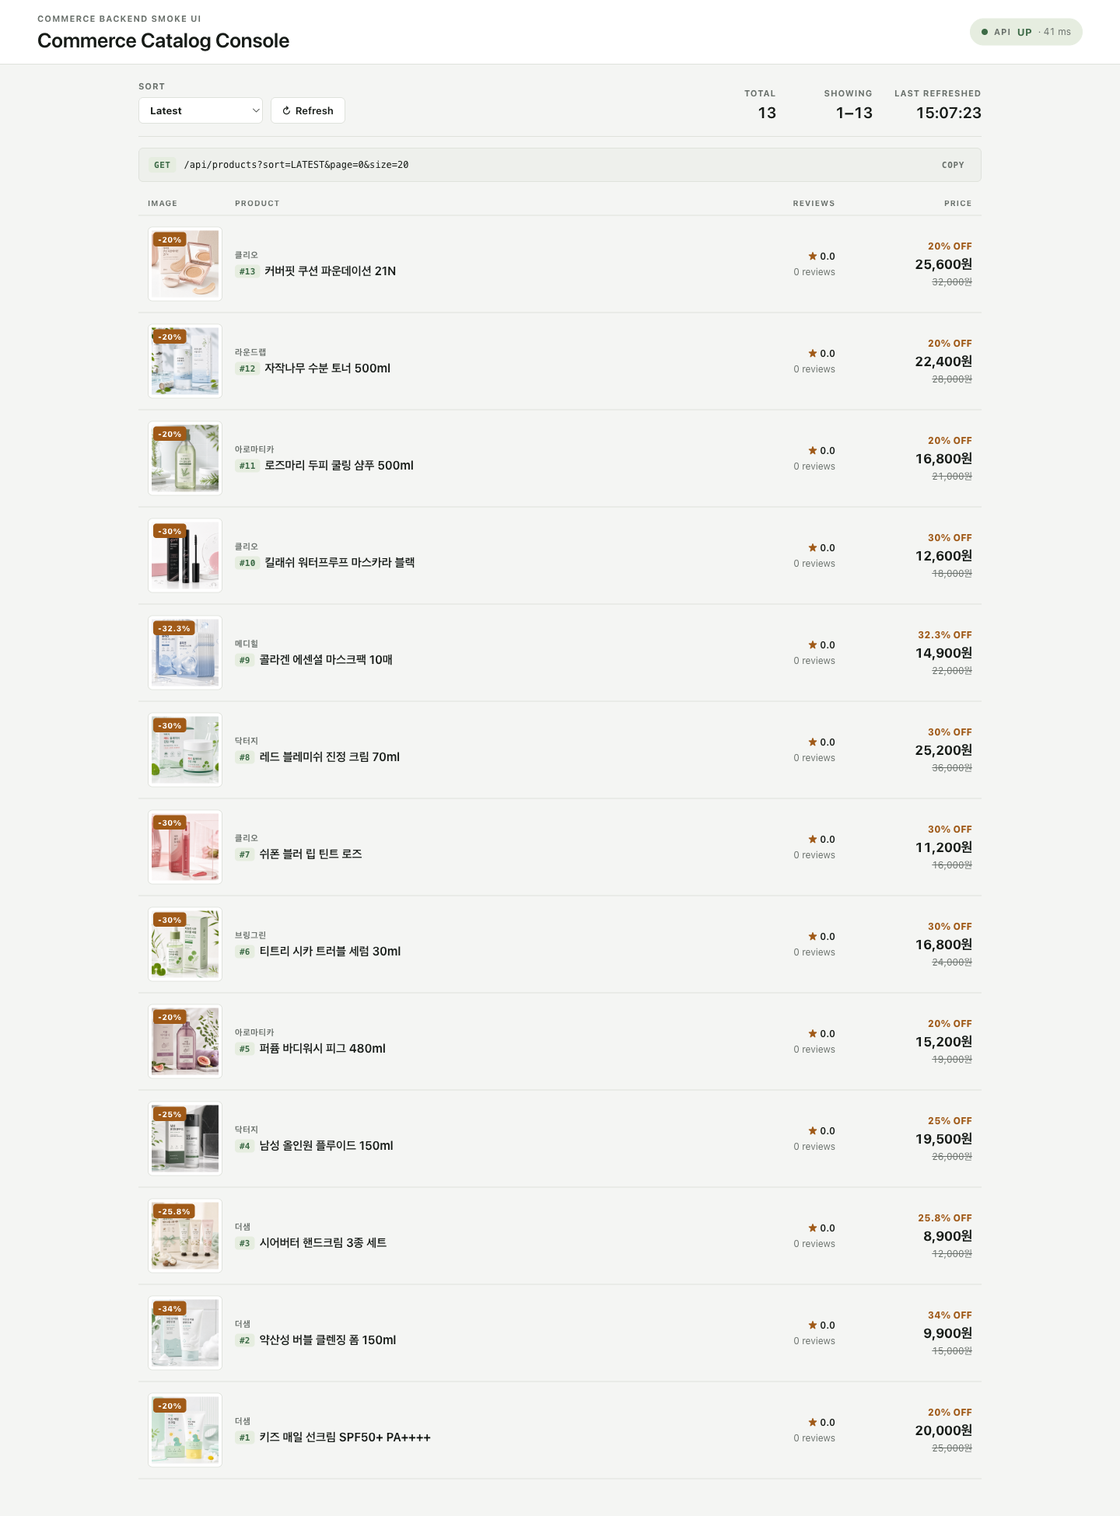
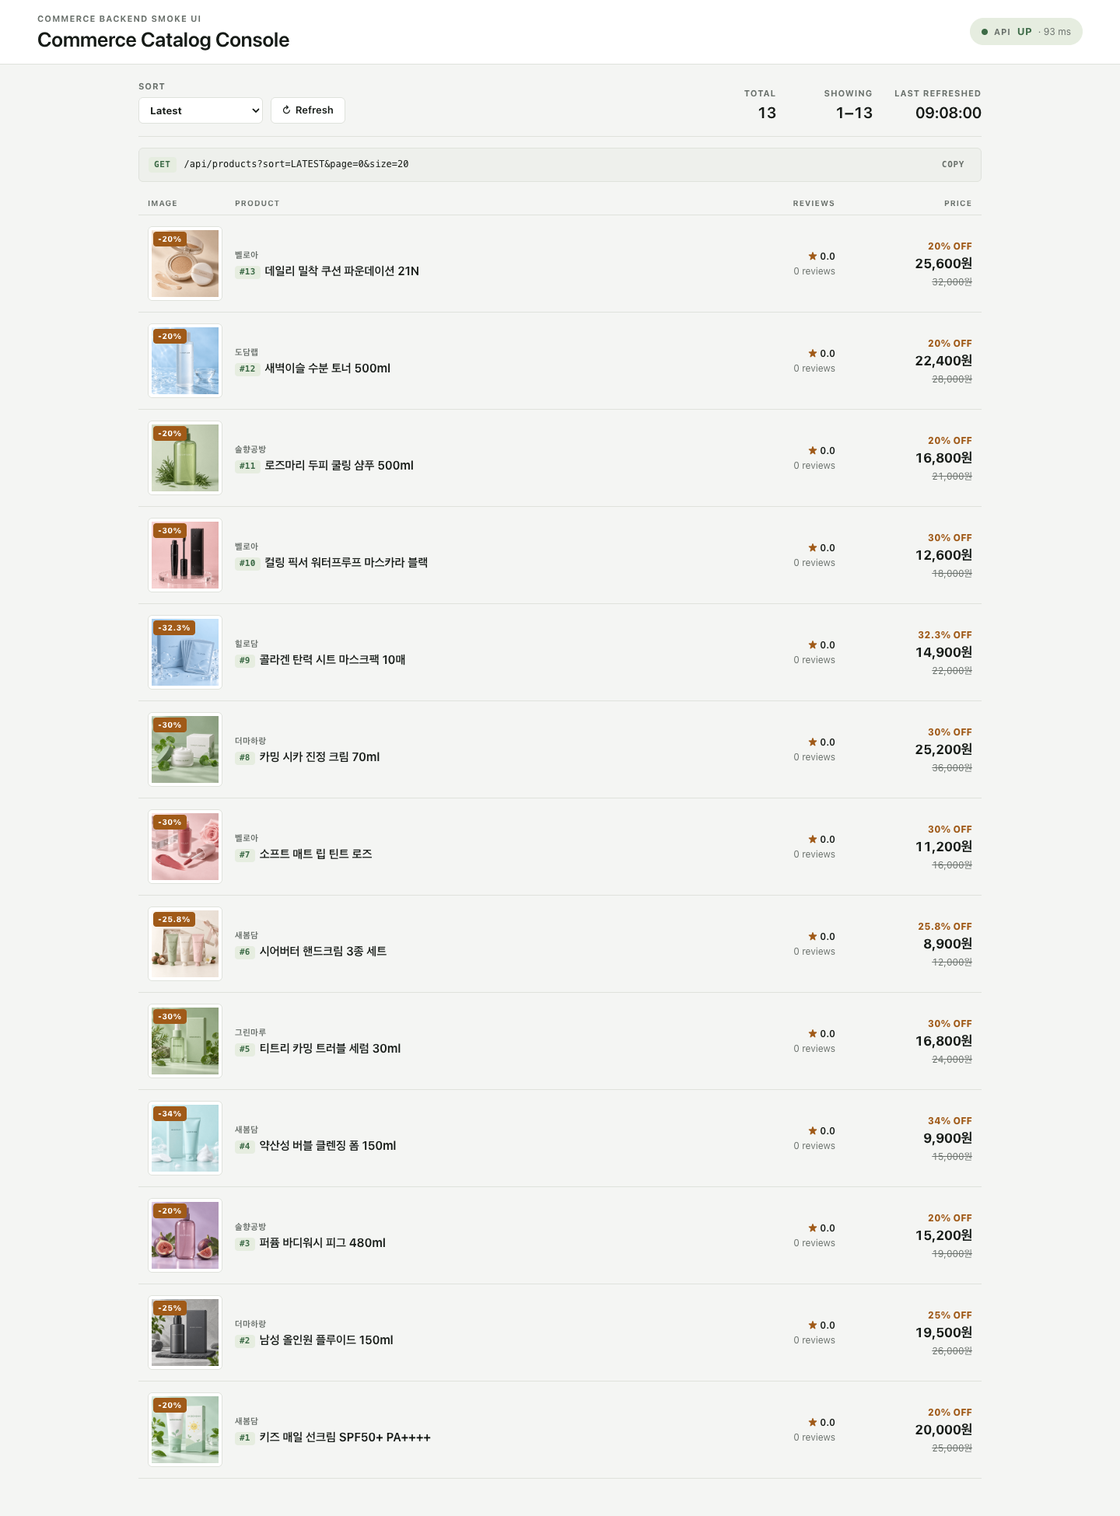
feat(catalog): replace real cosmetics brands with fictional ones
The demo seed used real Korean brand and product-line names (더샘,
라운드랩, 닥터지, 클리오, 메디힐, 아로마티카, 브링그린; 킬래쉬, 레드
블레미쉬, 쉬폰 블러 and others), and the product images printed them.

- V20 renames the 7 seeded brands (name, slug, logo URL), 7 product
  names that echoed real product lines, and 15 product image paths.
  Ids, prices, stock, options, and category mappings are unchanged;
  applied migrations are untouched.
- Regenerate all 15 product images with GPT Image 2 as packshots that
  carry only the fictional wordmark; 512px, pngquant (4.3 MB -> 1.5 MB).
- Demo fixtures follow V20; the drift test now applies V20's rename
  lists to V15/V16, checks brand names/slugs, and checks every image
  path exists.
- Regenerate brand logo SVGs for the new slugs and rename the
  "오늘드림" banner to a generic "빠른배송 무료배송".
- Replace real names in backend test data and the /dev gallery
  sample products; refresh README and console screenshots.

diff --git a/frontend/src/demo/fixtures.ts b/frontend/src/demo/fixtures.ts
@@ -1,8 +1,9 @@
 // Demo-mode catalog fixtures. Derived 1:1 from the Flyway seed migrations so the
 // static demo shows the same catalog as a fresh local backend:
-//   V3__product.sql                    brand 더샘, 3 root categories, sunscreen + 2 options
+//   V3__product.sql                    1 brand, 3 root categories, sunscreen + 2 options
 //   V15__demo_catalog_seed.sql         6 brands, 12 products, one "기본" option each
 //   V16__local_demo_product_images.sql same-origin product image paths
+//   V20__fictional_demo_brands.sql     fictional brand/product names and image paths
 //   V6__promotion.sql                  3 demo coupons
 // IDs follow the serial order the migrations produce on an empty database.
 
@@ -26,13 +27,13 @@ export interface DemoProduct {
 }
 
 export const DEMO_BRANDS: Record<number, { name: string; slug: string }> = {
-  1: { name: '더샘', slug: 'thesecret' },
-  2: { name: '라운드랩', slug: 'roundlab' },
-  3: { name: '닥터지', slug: 'drg' },
-  4: { name: '클리오', slug: 'clio' },
-  5: { name: '메디힐', slug: 'mediheal' },
-  6: { name: '아로마티카', slug: 'aromatica' },
-  7: { name: '브링그린', slug: 'bringgreen' },
+  1: { name: '새봄담', slug: 'saebomdam' },
+  2: { name: '도담랩', slug: 'dodamlab' },
+  3: { name: '더마하랑', slug: 'dermaharang' },
+  4: { name: '벨로아', slug: 'veloa' },
+  5: { name: '힐로담', slug: 'hilodam' },
+  6: { name: '솔향공방', slug: 'solhyang' },
+  7: { name: '그린마루', slug: 'greenmaru' },
 }
 
 export const DEMO_CATEGORIES: DemoCategory[] = [
@@ -47,18 +48,18 @@ type Row = [brandId: number, name: string, description: string, base: number, sa
 
 // V15 VALUES order -> product ids 2..13
 const V15_ROWS: Row[] = [
-  [2, '자작나무 수분 토너 500ml', '건조한 피부에 산뜻하게 흡수되는 대용량 수분 토너입니다.', 28000, 22400, 1, 'roundlab-birch-toner-500ml.png'],
-  [3, '레드 블레미쉬 진정 크림 70ml', '민감한 피부를 촉촉하게 진정시키는 데일리 수분 크림입니다.', 36000, 25200, 1, 'drg-red-blemish-cream-70ml.png'],
-  [7, '티트리 시카 트러블 세럼 30ml', '티트리와 시카 성분으로 번들거림 없이 케어하는 집중 세럼입니다.', 24000, 16800, 1, 'bringgreen-teatree-cica-serum-30ml.png'],
-  [1, '약산성 버블 클렌징 폼 150ml', '풍성한 버블로 피부 장벽 부담을 줄인 약산성 클렌징 폼입니다.', 15000, 9900, 1, 'the-saem-low-ph-bubble-cleansing-foam-150ml.png'],
-  [5, '콜라겐 에센셜 마스크팩 10매', '피부 탄력과 윤기를 위한 에센스 듬뿍 시트 마스크 세트입니다.', 22000, 14900, 1, 'mediheal-collagen-mask-10ea.png'],
-  [4, '킬래쉬 워터프루프 마스카라 블랙', '번짐 없이 또렷한 속눈썹을 연출하는 워터프루프 마스카라입니다.', 18000, 12600, 2, 'clio-kill-lash-waterproof-mascara-black.png'],
-  [4, '쉬폰 블러 립 틴트 로즈', '가볍게 밀착되는 로즈 컬러의 소프트 블러 립 틴트입니다.', 16000, 11200, 2, 'clio-chiffon-blur-lip-tint-rose.png'],
-  [4, '커버핏 쿠션 파운데이션 21N', '얇게 밀착되면서 자연스러운 커버를 돕는 데일리 쿠션입니다.', 32000, 25600, 2, 'clio-coverfit-cushion-foundation-21n.png'],
-  [6, '로즈마리 두피 쿨링 샴푸 500ml', '두피를 산뜻하게 씻어내는 로즈마리 쿨링 샴푸입니다.', 21000, 16800, 3, 'aromatica-rosemary-scalp-cooling-shampoo-500ml.png'],
-  [6, '퍼퓸 바디워시 피그 480ml', '은은한 무화과 향으로 샤워 후 잔향을 남기는 바디워시입니다.', 19000, 15200, 3, 'aromatica-perfume-bodywash-fig-480ml.png'],
-  [1, '시어버터 핸드크림 3종 세트', '휴대하기 좋은 보습 핸드크림 3종 기획 세트입니다.', 12000, 8900, 3, 'the-saem-sheabutter-handcream-3set.png'],
-  [3, '남성 올인원 플루이드 150ml', '스킨과 로션 단계를 한 번에 끝내는 산뜻한 남성 올인원입니다.', 26000, 19500, 1, 'drg-men-all-in-one-fluid-150ml.png'],
+  [2, '새벽이슬 수분 토너 500ml', '건조한 피부에 산뜻하게 흡수되는 대용량 수분 토너입니다.', 28000, 22400, 1, 'dodamlab-dew-toner-500ml.png'],
+  [3, '카밍 시카 진정 크림 70ml', '민감한 피부를 촉촉하게 진정시키는 데일리 수분 크림입니다.', 36000, 25200, 1, 'dermaharang-calming-cica-cream-70ml.png'],
+  [7, '티트리 카밍 트러블 세럼 30ml', '티트리와 시카 성분으로 번들거림 없이 케어하는 집중 세럼입니다.', 24000, 16800, 1, 'greenmaru-teatree-calming-serum-30ml.png'],
+  [1, '약산성 버블 클렌징 폼 150ml', '풍성한 버블로 피부 장벽 부담을 줄인 약산성 클렌징 폼입니다.', 15000, 9900, 1, 'saebomdam-low-ph-bubble-cleansing-foam-150ml.png'],
+  [5, '콜라겐 탄력 시트 마스크팩 10매', '피부 탄력과 윤기를 위한 에센스 듬뿍 시트 마스크 세트입니다.', 22000, 14900, 1, 'hilodam-collagen-sheet-mask-10ea.png'],
+  [4, '컬링 픽서 워터프루프 마스카라 블랙', '번짐 없이 또렷한 속눈썹을 연출하는 워터프루프 마스카라입니다.', 18000, 12600, 2, 'veloa-curl-fixer-waterproof-mascara-black.png'],
+  [4, '소프트 매트 립 틴트 로즈', '가볍게 밀착되는 로즈 컬러의 소프트 블러 립 틴트입니다.', 16000, 11200, 2, 'veloa-soft-matte-lip-tint-rose.png'],
+  [4, '데일리 밀착 쿠션 파운데이션 21N', '얇게 밀착되면서 자연스러운 커버를 돕는 데일리 쿠션입니다.', 32000, 25600, 2, 'veloa-daily-fit-cushion-foundation-21n.png'],
+  [6, '로즈마리 두피 쿨링 샴푸 500ml', '두피를 산뜻하게 씻어내는 로즈마리 쿨링 샴푸입니다.', 21000, 16800, 3, 'solhyang-rosemary-scalp-cooling-shampoo-500ml.png'],
+  [6, '퍼퓸 바디워시 피그 480ml', '은은한 무화과 향으로 샤워 후 잔향을 남기는 바디워시입니다.', 19000, 15200, 3, 'solhyang-perfume-bodywash-fig-480ml.png'],
+  [1, '시어버터 핸드크림 3종 세트', '휴대하기 좋은 보습 핸드크림 3종 기획 세트입니다.', 12000, 8900, 3, 'saebomdam-sheabutter-handcream-3set.png'],
+  [3, '남성 올인원 플루이드 150ml', '스킨과 로션 단계를 한 번에 끝내는 산뜻한 남성 올인원입니다.', 26000, 19500, 1, 'dermaharang-men-all-in-one-fluid-150ml.png'],
 ]
 
 export const DEMO_PRODUCTS: DemoProduct[] = [
@@ -73,9 +74,9 @@ export const DEMO_PRODUCTS: DemoProduct[] = [
     // V3 maps the sunscreen to every root category (CROSS JOIN).
     categoryIds: [1, 2, 3],
     images: [
-      img('the-saem-kids-suncream-spf50-thumb.png'),
-      img('the-saem-kids-suncream-detail-1.png'),
-      img('the-saem-kids-suncream-detail-2.png'),
+      img('saebomdam-kids-suncream-spf50-thumb.png'),
+      img('saebomdam-kids-suncream-detail-1.png'),
+      img('saebomdam-kids-suncream-detail-2.png'),
     ],
     options: [
       { id: 1, name: '50ml', price: 0 },

diff --git a/frontend/src/demo/mockApi.test.ts b/frontend/src/demo/mockApi.test.ts
@@ -1,8 +1,8 @@
-import { readFileSync } from 'node:fs'
+import { existsSync, readFileSync } from 'node:fs'
 import { resolve } from 'node:path'
 import { beforeEach, describe, expect, it } from 'vitest'
 import { demoFetch, resetDemoState } from './mockApi'
-import { DEMO_ACCOUNT, DEMO_PRODUCTS } from './fixtures'
+import { DEMO_ACCOUNT, DEMO_BRANDS, DEMO_PRODUCTS } from './fixtures'
 
 type Envelope<T = any> = { success: boolean; data?: T; meta?: { page: number; size: number; total: number }; error?: { code: string } }
 
@@ -26,21 +26,54 @@ describe('demo fixtures stay in sync with the Flyway seed', () => {
   const migration = (name: string) =>
     readFileSync(resolve(process.cwd(), '../src/main/resources/db/migration', name), 'utf8')
 
+  // V20 renames seeded brands, products, and image paths; the fixtures hold the
+  // post-V20 values, so apply its VALUES lists to what V3/V15/V16 inserted.
+  const v20 = migration('V20__fictional_demo_brands.sql')
+  const block = (cte: string) => {
+    const start = v20.indexOf(`WITH ${cte} (`)
+    return v20.slice(start, v20.indexOf('UPDATE', start))
+  }
+  const pairs = (cte: string) => new Map([...block(cte).matchAll(/\('([^']+)', '([^']+)'\)/g)].map(([, a, b]) => [a, b]))
+  const productRenames = pairs('product_renames')
+  const imageRenames = pairs('image_renames')
+  const renamedProduct = (name: string) => productRenames.get(name) ?? name
+  const renamedImage = (url: string) => imageRenames.get(url) ?? url
+
   it('has every V15 product with the same prices', () => {
     const sql = migration('V15__demo_catalog_seed.sql')
     const rows = [...sql.matchAll(/\('(\w+)', '([^']+)', '[^']+', (\d+), (\d+), '[^']+'\)/g)]
     expect(rows).toHaveLength(12)
-    for (const [, , name, base, sale] of rows) {
+    for (const [, , seededName, base, sale] of rows) {
+      const name = renamedProduct(seededName)
       const p = DEMO_PRODUCTS.find((x) => x.name === name)
       expect(p, name).toBeDefined()
       expect([p!.basePrice, p!.salePrice]).toEqual([Number(base), Number(sale)])
     }
   })
 
-  it('uses the same image paths as V16', () => {
+  it('uses the same image paths as V16 after the V20 renames', () => {
     const sql = migration('V16__local_demo_product_images.sql')
+    const thumbs = new Map(
+      [...sql.matchAll(/\('([^']+)', '(\/images\/products\/[^']+)'\)/g)].map(([, name, url]) => [renamedProduct(name), renamedImage(url)]),
+    )
     for (const p of DEMO_PRODUCTS) {
-      expect(sql, p.name).toContain(`('${p.name}', '${p.images[0]}')`)
+      expect(p.images[0], p.name).toBe(thumbs.get(p.name))
+    }
+    const details = [...sql.matchAll(/\(\d, '(\/images\/products\/[^']+)'\)/g)].map(([, url]) => renamedImage(url))
+    expect(DEMO_PRODUCTS[0].images.slice(1)).toEqual([...new Set(details)])
+  })
+
+  it('uses the V20 brand names and slugs', () => {
+    const renames = [...block('brand_renames').matchAll(/\('[^']+', '([^']+)', '([^']+)', '[^']+'\)/g)]
+    expect(renames).toHaveLength(Object.keys(DEMO_BRANDS).length)
+    for (const [, name, slug] of renames) {
+      expect(Object.values(DEMO_BRANDS)).toContainEqual({ name, slug })
+    }
+  })
+
+  it('ships an image file for every product image path', () => {
+    for (const url of DEMO_PRODUCTS.flatMap((p) => p.images)) {
+      expect(existsSync(resolve(process.cwd(), '../src/main/resources/static', url.slice(1))), url).toBe(true)
     }
   })
 })
@@ -71,7 +104,7 @@ describe('demo mock API', () => {
 
   it('runs cart -> order -> payment with coupon, points, and idempotent replay', async () => {
     const auth = await login()
-    await call('POST', '/cart/items', { productOptionId: 4, quantity: 2 }, auth) // 레드 블레미쉬 25,200 x2
+    await call('POST', '/cart/items', { productOptionId: 4, quantity: 2 }, auth) // 카밍 시카 진정 크림 25,200 x2
     const cart = await call('GET', '/cart', undefined, auth)
     expect(cart.env.data.totalAmount).toBe(50400)
 

diff --git a/frontend/src/pages/Dev.tsx b/frontend/src/pages/Dev.tsx
@@ -21,8 +21,8 @@ import styles from './Dev.module.css'
 
 const SAMPLE_PRODUCT: ProductListItem = {
   productId: 1,
-  brandName: 'COSRX',
-  productName: '어드밴스드 스네일 96 뮤신 파워 에센스 (달팽이 점액 여과물 96%)',
+  brandName: '새봄담',
+  productName: '히알루론 96 수분 부스팅 에센스 (히알루론산 복합체 96%)',
   salePrice: 18900,
   originalPrice: 25000,
   discountRate: 24,
@@ -34,8 +34,8 @@ const SAMPLE_PRODUCT: ProductListItem = {
 const SAMPLE_PRODUCT_NO_DISCOUNT: ProductListItem = {
   ...SAMPLE_PRODUCT,
   productId: 2,
-  brandName: 'Innisfree',
-  productName: '그린티 씨드 세럼',
+  brandName: '그린마루',
+  productName: '티트리 카밍 트러블 세럼',
   salePrice: 28000,
   originalPrice: 28000,
   discountRate: 0,
@@ -70,7 +70,7 @@ const SAMPLE_OPTIONS: ProductOptionSummary[] = [
 ]
 
 const SAMPLE_FILTERS: AppliedFilter[] = [
-  { id: 'brand-cosrx', label: 'COSRX' },
+  { id: 'brand-saebomdam', label: '새봄담' },
   { id: 'price-under-20k', label: '2만원 이하' },
 ]
 

diff --git a/src/test/java/com/olive/commerce/admin/BrandCategoryAdminApiIT.java b/src/test/java/com/olive/commerce/admin/BrandCategoryAdminApiIT.java
@@ -160,7 +160,7 @@ class BrandCategoryAdminApiIT extends PostgresIntegrationSupport {
         mockMvc.perform(post("/api/admin/brands")
                 .with(jwtWithRole(productAdminToken, "PRODUCT_ADMIN"))
                 .contentType(MediaType.APPLICATION_JSON)
-                .content(json.writeValueAsString(new BrandCreateRequest("New Name", "thesecret", "logo"))))
+                .content(json.writeValueAsString(new BrandCreateRequest("New Name", "saebomdam", "logo"))))
             .andExpect(status().isConflict())
             .andExpect(jsonPath("$.error.code").value("BRAND_SLUG_DUPLICATE"));
     }
@@ -184,10 +184,10 @@ class BrandCategoryAdminApiIT extends PostgresIntegrationSupport {
         mockMvc.perform(post("/api/admin/brands")
                 .with(jwtWithRole(productAdminToken, "PRODUCT_ADMIN"))
                 .contentType(MediaType.APPLICATION_JSON)
-                .content(json.writeValueAsString(new BrandCreateRequest("이니스프리", "innisfree", "logo"))))
+                .content(json.writeValueAsString(new BrandCreateRequest("하람숲", "haramsup", "logo"))))
             .andExpect(status().isCreated())
             .andExpect(jsonPath("$.success").value(true))
-            .andExpect(jsonPath("$.data.slug").value("innisfree"));
+            .andExpect(jsonPath("$.data.slug").value("haramsup"));
     }
 
     @Test
@@ -195,9 +195,9 @@ class BrandCategoryAdminApiIT extends PostgresIntegrationSupport {
         mockMvc.perform(patch("/api/admin/brands/1")
                 .with(jwtWithRole(productAdminToken, "PRODUCT_ADMIN"))
                 .contentType(MediaType.APPLICATION_JSON)
-                .content(json.writeValueAsString(new BrandUpdateRequest("더샘 업데이트", "logo2", "ACTIVE"))))
+                .content(json.writeValueAsString(new BrandUpdateRequest("새봄담 업데이트", "logo2", "ACTIVE"))))
             .andExpect(status().isOk())
-            .andExpect(jsonPath("$.data.name").value("더샘 업데이트"));
+            .andExpect(jsonPath("$.data.name").value("새봄담 업데이트"));
     }
 
     @Test

diff --git a/src/test/java/com/olive/commerce/product/ProductSchemaIntegrationTest.java b/src/test/java/com/olive/commerce/product/ProductSchemaIntegrationTest.java
@@ -47,12 +47,12 @@ class ProductSchemaIntegrationTest extends PostgresIntegrationSupport {
         Object[] brand = (Object[]) em.createNativeQuery("""
                 SELECT name, slug, logo_url, status
                 FROM brands
-                WHERE slug = 'thesecret'
+                WHERE slug = 'saebomdam'
                 """).getSingleResult();
 
-        assertThat(brand[0]).isEqualTo("더샘");
-        assertThat(brand[1]).isEqualTo("thesecret");
-        assertThat(brand[2]).isEqualTo("https://s3.local/brands/thesecret.png");
+        assertThat(brand[0]).isEqualTo("새봄담");
+        assertThat(brand[1]).isEqualTo("saebomdam");
+        assertThat(brand[2]).isEqualTo("https://s3.local/brands/saebomdam.png");
         assertThat(brand[3]).isEqualTo("ACTIVE");
     }
 
@@ -84,7 +84,7 @@ class ProductSchemaIntegrationTest extends PostgresIntegrationSupport {
         assertThat(product[1]).isEqualTo("ON_SALE");
         assertThat(product[2]).isEqualTo(new BigDecimal("25000.00"));
         assertThat(product[3]).isEqualTo(new BigDecimal("20000.00"));
-        assertThat(product[4]).isEqualTo("더샘");
+        assertThat(product[4]).isEqualTo("새봄담");
 
         @SuppressWarnings("unchecked")
         List<Object[]> options = em.createNativeQuery("""
@@ -129,7 +129,7 @@ class ProductSchemaIntegrationTest extends PostgresIntegrationSupport {
     void repositoryTest_InsertsProductWithTwoOptionsAndThreeCategories_ReadsBack() {
         // Given: demo brand + categories already seeded
         Long brandId = ((Number) em.createNativeQuery(
-                "SELECT id FROM brands WHERE slug = 'thesecret'"
+                "SELECT id FROM brands WHERE slug = 'saebomdam'"
         ).getSingleResult()).longValue();
 
         // When: product + 2 options + 3 category mappings insert

diff --git a/src/test/java/com/olive/commerce/product/ProductAdminApiIT.java b/src/test/java/com/olive/commerce/product/ProductAdminApiIT.java
@@ -119,7 +119,7 @@ class ProductAdminApiIT extends PostgresIntegrationSupport {
     void createProduct_withTwoOptionsAndTwoCategories_returns201() throws Exception {
         // Given: brand id=1, category ids 1,2 exist from Flyway
         var request = new ProductCreateRequest(
-            1L,  // brand_id (더샘)
+            1L,  // brand_id (새봄담)
             "테스트 상품",
             "테스트 상품 설명",
             new BigDecimal("15000"),
@@ -148,7 +148,7 @@ class ProductAdminApiIT extends PostgresIntegrationSupport {
             .andExpect(jsonPath("$.data.basePrice").value(15000))
             .andExpect(jsonPath("$.data.salePrice").value(12000))
             .andExpect(jsonPath("$.data.status").value("DRAFT"))
-            .andExpect(jsonPath("$.data.brandName").value("더샘"))
+            .andExpect(jsonPath("$.data.brandName").value("새봄담"))
             .andExpect(jsonPath("$.data.categories").isArray())
             .andExpect(jsonPath("$.data.categories.length()").value(2))
             .andExpect(jsonPath("$.data.options").isArray())

diff --git a/src/test/java/com/olive/commerce/product/ProductPublicApiIT.java b/src/test/java/com/olive/commerce/product/ProductPublicApiIT.java
@@ -142,7 +142,7 @@ class ProductPublicApiIT extends PostgresIntegrationSupport {
             .andExpect(jsonPath("$.success").value(true))
             .andExpect(jsonPath("$.data.productId").value(1))
             .andExpect(jsonPath("$.data.productName").value("키즈 매일 선크림 SPF50+ PA++++"))
-            .andExpect(jsonPath("$.data.brandName").value("더샘"))
+            .andExpect(jsonPath("$.data.brandName").value("새봄담"))
             .andExpect(jsonPath("$.data.salePrice").value(20000))
             .andExpect(jsonPath("$.data.originalPrice").value(25000))
             .andExpect(jsonPath("$.data.discountRate").value(20.0))
@@ -442,7 +442,7 @@ class ProductPublicApiIT extends PostgresIntegrationSupport {
         mockMvc.perform(get("/api/products?brandId=1"))
             .andExpect(status().isOk())
             .andExpect(jsonPath("$.data.length()").value(1))
-            .andExpect(jsonPath("$.data[0].brandName").value("더샘"));
+            .andExpect(jsonPath("$.data[0].brandName").value("새봄담"));
     }
 
     @Test

diff --git a/src/test/java/com/olive/commerce/public_api/SubResourceProductApiIT.java b/src/test/java/com/olive/commerce/public_api/SubResourceProductApiIT.java
@@ -31,7 +31,7 @@ import static org.springframework.test.web.servlet.result.MockMvcResultMatchers.
  * - 인증 없이 접근 가능 (public endpoint)
  *
  * Flyway V3 시드 기준:
- *   brand id=1 (더샘/thesecret), product id=1 (선크림, ON_SALE)
+ *   brand id=1 (새봄담/saebomdam), product id=1 (선크림, ON_SALE)
  *   category id=1 (스킨케어) — product 1이 매핑됨
  */
 @SpringBootTest
@@ -115,7 +115,7 @@ class SubResourceProductApiIT extends PostgresIntegrationSupport {
 
     @Test
     void brandProducts_knownId_returnsProductList() throws Exception {
-        // Brand id=1 (더샘/thesecret) has product 1 (선크림) from V3 seed.
+        // Brand id=1 (새봄담/saebomdam) has product 1 (선크림) from V3 seed.
         mockMvc.perform(get("/api/brands/1/products"))
             .andExpect(status().isOk())
             .andExpect(jsonPath("$.success").value(true))

diff --git a/src/test/java/com/olive/commerce/public_api/AutocompleteApiIT.java b/src/test/java/com/olive/commerce/public_api/AutocompleteApiIT.java
@@ -105,7 +105,7 @@ class AutocompleteApiIT extends PostgresIntegrationSupport {
 
     @Test
     void ac4_english_prefix_isCaseInsensitive() throws Exception {
-        // Brand name "더샘"은 한글이지만, productName에 "SPF50+" 포함 → 대소문자 무관.
+        // Brand name "새봄담"은 한글이지만, productName에 "SPF50+" 포함 → 대소문자 무관.
         mockMvc.perform(get("/api/search/autocomplete").param("prefix", "spf"))
             .andExpect(status().isOk())
             .andExpect(jsonPath("$.success").value(true))

diff --git a/src/test/java/com/olive/commerce/order/OrderCancelApiIT.java b/src/test/java/com/olive/commerce/order/OrderCancelApiIT.java
@@ -164,7 +164,7 @@ class OrderCancelApiIT extends PostgresIntegrationSupport {
             // 브랜드 생성
             long brandId = ((Number) em.createNativeQuery("""
                     INSERT INTO brands (name, slug, logo_url, status)
-                    VALUES ('OLIVE YOUNG', 'olive-young', 'https://s3.local/olive.png', 'ACTIVE')
+                    VALUES ('TEST BRAND', 'test-brand', 'https://s3.local/test-brand.png', 'ACTIVE')
                     RETURNING id
                     """).getSingleResult()).longValue();
 

diff --git a/src/test/java/com/olive/commerce/search/ProductSearchSyncIT.java b/src/test/java/com/olive/commerce/search/ProductSearchSyncIT.java
@@ -117,7 +117,7 @@ class ProductSearchSyncIT extends PostgresIntegrationSupport {
         assertThat(doc.productName()).contains("선크림");
         assertThat(doc.salePrice()).isEqualTo(20000L);
         assertThat(doc.status()).isEqualTo("ON_SALE");
-        assertThat(doc.brandName()).isEqualTo("더샘");
+        assertThat(doc.brandName()).isEqualTo("새봄담");
         assertThat(doc.categoryNames()).contains("스킨케어");
 
         // outbox row가 DONE 상태인지 확인.

diff --git a/src/test/java/com/olive/commerce/public_api/BrandCategoryPublicApiIT.java b/src/test/java/com/olive/commerce/public_api/BrandCategoryPublicApiIT.java
@@ -99,7 +99,7 @@ class BrandCategoryPublicApiIT extends PostgresIntegrationSupport {
             .andExpect(jsonPath("$.success").value(true))
             .andExpect(jsonPath("$.data").isArray())
             .andExpect(jsonPath("$.data.length()").value(7))
-            .andExpect(jsonPath("$.data[0].slug").value("thesecret"));
+            .andExpect(jsonPath("$.data[0].slug").value("saebomdam"));
     }
 
     @Test
